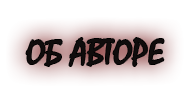
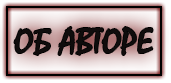
Обновление до 0.1.1

diff --git a/script/script1.js b/script/script1.js
@@ -1,0 +1,26 @@
+function r_out01(){
+	var a=[];
+	a[0]='Как погода? Надеюсь, что хорошо, т.к. погода непредсказуема';
+    a[1]='Ну что пацаны, аниме?';
+    a[3]='Добро пожаловать на мой сайт!';
+    a[4]='Здесь должно быть больше JavaScript!';
+    a[5]='Нравится Вам бегущая строка? Она забавная';
+    a[6]='Всё это сделано руками автора, а я бегущая строка';
+    a[7]='Удачи Вам в учёбе!';
+    a[8]='Вжух! И появилась новая строка';
+    a[9]='Welcome to my website!';
+    a[10]='Willkommen auf meiner Seite!';
+    a[11]='Знаете ответ на вопрос жизни, вселенной и всего такого?';
+    a[12]='Менің сайтыма қош келдіңіздер!';
+    a[13]='Вы уже заметили, что строка переводит также на другие языки?';
+    a[14]='Нравится сайт? Мне тоже';
+    a[15]='Сделано в Visual Studio Code';
+    a[16]='Если автор программист, это не значит, что он ещё и хакер';
+    a[17]='Eee boy!';
+    a[18]='Кнопки и логотип сделаны в Adobe Photoshop';
+    a[19]='Big Russian Boss';
+    a[20]='Это рандом, друзья!';
+    a[21]='15 сентября 2018 - именно в этот день я поумнела!';
+    a[22]='Всего 23 строк в бегущей строке, их будет больше! Если, конечно, у автора не закончится фантазия';
+	document.write(a[Math.floor(Math.random()*a.length)])
+};

diff --git a/index.html b/index.html
@@ -31,8 +31,21 @@
 			<a href="author.html"><img src="image/buttons/author.png" alt="Author" title="Об авторе" onMouseOver="this.src='image/buttons/author1.png'"
 				 onMouseOut="this.src='image/buttons/author.png'" /></a>
 			<!--Конец замещающих изображений-->
-			<ul class="marquee"><span>Добро пожаловать на мой сайт!</span></ul>
+			<ul class="marquee">
+				<span>
+					<script src='script/script1.js'></script>
+					<script>r_out01()</script>
+				</span>
+			</ul>
 		</header>
+			<div>
+				<time>Дата публикации: 15 Сентября 2018</time>
+				<h1>Обновление 0.1.1 - Beta</h1>
+				<p class="image-center"><img class="update" src="image/Version/Update 0.1.1.jpg" alt="Version" title="Обновление" /></p>
+				<p>Вышло обновление сайта до 0.1.1 Beta:</p>
+				<li>Обновлены дизайн кнопок</li>
+				<li>Знакомтесь: новая бегущая строка!</li>
+			</div>
 			<div>
 				<time>Дата публикации: 14 Сентября 2018</time>
 			<h1>Опрос</h1>
@@ -57,7 +70,7 @@
 				<p><a href="malito:fish66652@gmail.com"><img align="right" title="Отправить на почту" class="buttons" src="image/e-mail.png"
 				 alt="E-mail"></a></p>
 				<p class="footer-text">&copy; 2018 </p>
-				<p class="footer-text">Версия - 0.1.0 Beta </p>
+				<p class="footer-text">Версия - 0.1.1 Beta </p>
 				<p class="footer-text">Сайт создал Дмитрий Жутков и выложен на ресурсе GitHub</p>
 		</footer>
 	</body>

diff --git a/blog.html b/blog.html
@@ -28,7 +28,12 @@
 		<a href="author.html"><img src="image/buttons/author.png" alt="Author" title="Об авторе" onMouseOver="this.src='image/buttons/author1.png'"
 			 onMouseOut="this.src='image/buttons/author.png'" /></a>
 		<!--Конец замещающих изображений-->
-		<ul class="marquee"><span>Это мой блог. Добро пожаловать!</span></ul>
+		<ul class="marquee">
+				<span>
+					<script src='script/script1.js'></script>
+					<script>r_out01()</script>
+				</span>
+			</ul>
 	</header>
 
 	<div>
@@ -60,7 +65,7 @@
 			<a href="https://www.facebook.com/profile.php?id=100022862132558"><img src="Image/facebook-512.png" align="right"
 				 alt="Facebook" class="buttons" title="Страница Facebook"></a>
 			<a href="mailto:fish66652@gmail.com"><img src="Image/e-mail.png" align="right" alt="e-mail" class="buttons" title="Написать на почту"></a>
-			<p class="footer-text">Версия - 0.1.0 Beta</p>
+			<p class="footer-text">Версия - 0.1.1 Beta</p>
 			<p class="footer-text">Сайт создал Дмитрий Жутков и выложен на ресурсе GitHub</p>
 	</footer>
 </body>

diff --git a/author.html b/author.html
@@ -27,7 +27,12 @@
 		<a href="author.html"><img src="image/buttons/author.png" alt="Author" title="Об авторе" onMouseOver="this.src='image/buttons/author1.png'"
 			 onMouseOut="this.src='image/buttons/author.png'" /></a>
 		<!--Конец замещающих изображений-->
-		<ul class="marquee"><span>А здесь можете узнать об авторе!</span></ul>
+		<ul class="marquee">
+				<span>
+					<script src='script/script1.js'></script>
+					<script>r_out01()</script>
+				</span>
+			</ul>
 	</header>
 	<div>
 		<h1 align="center">Всем привет!</h1>
@@ -45,7 +50,7 @@
 				 src="Image/facebook-512.png" alt="Facebook"></a>
 			<a href="malito:fish66652@gmail.com"><img align="right" title="Отправить на почту" class="buttons" src="Image/e-mail.png"
 				 alt="E-mail"></a>
-			<p class="footer-text">Версия - 0.1.0 Beta</p>
+			<p class="footer-text">Версия - 0.1.1 Beta</p>
 			<p class="footer-text">Сайт создал Дмитрий Жутков и выложен на ресурсе GitHub</p>
 	</footer>
 </body>
